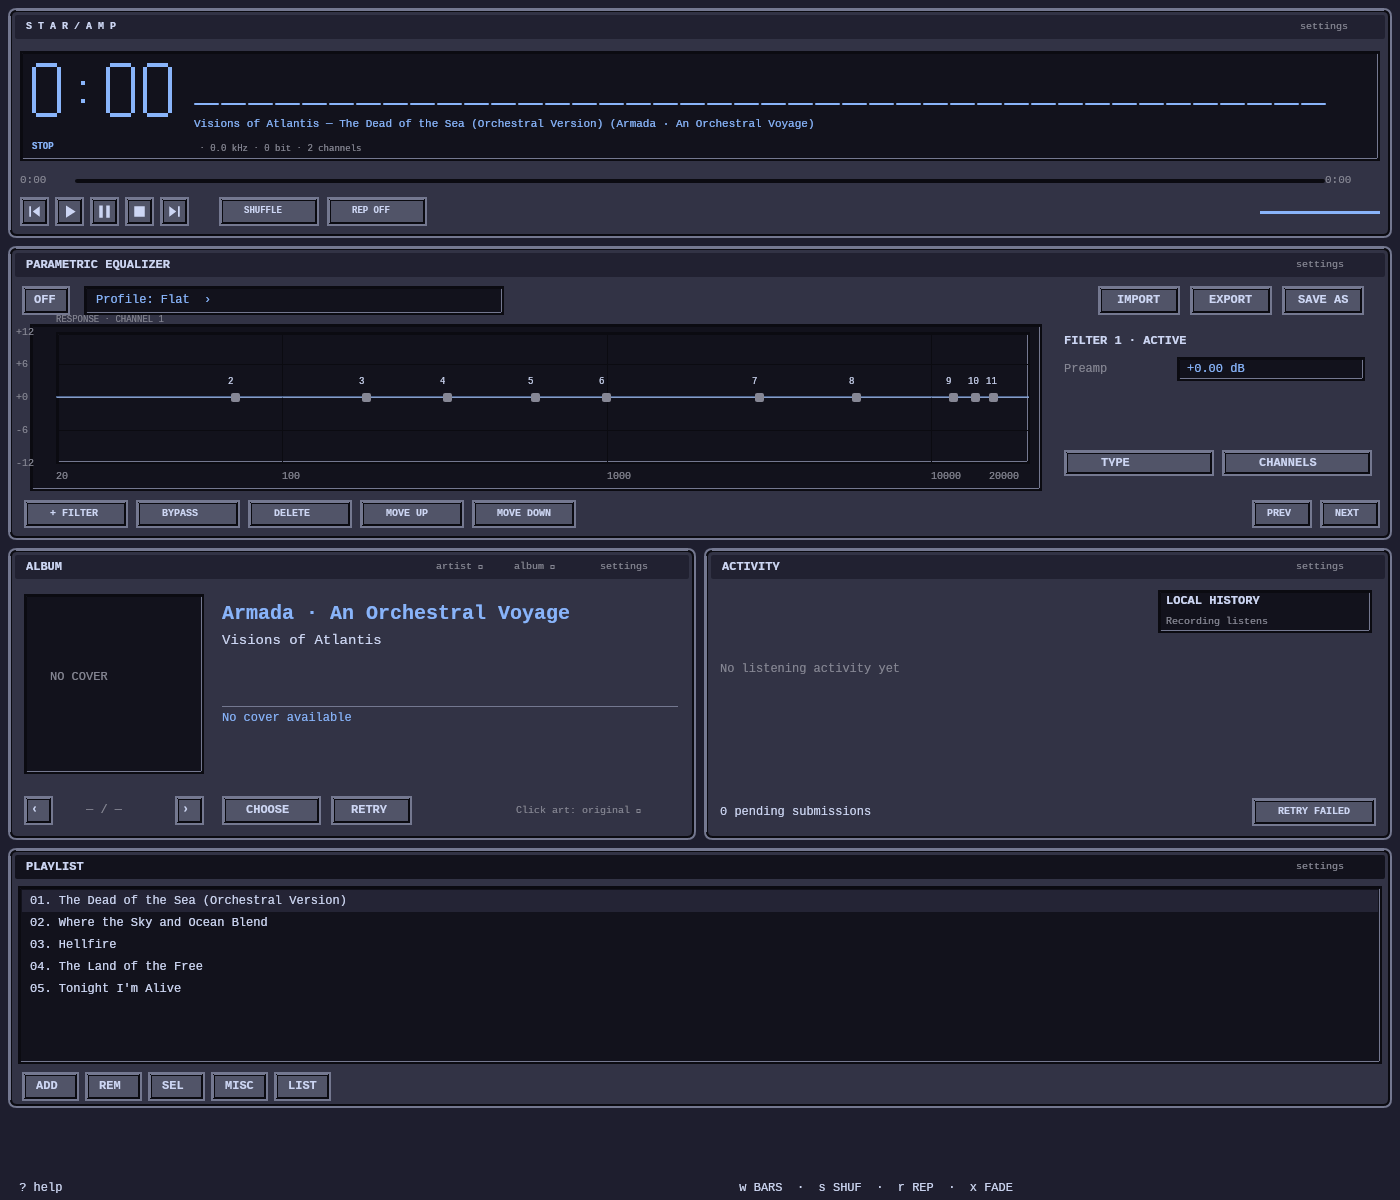
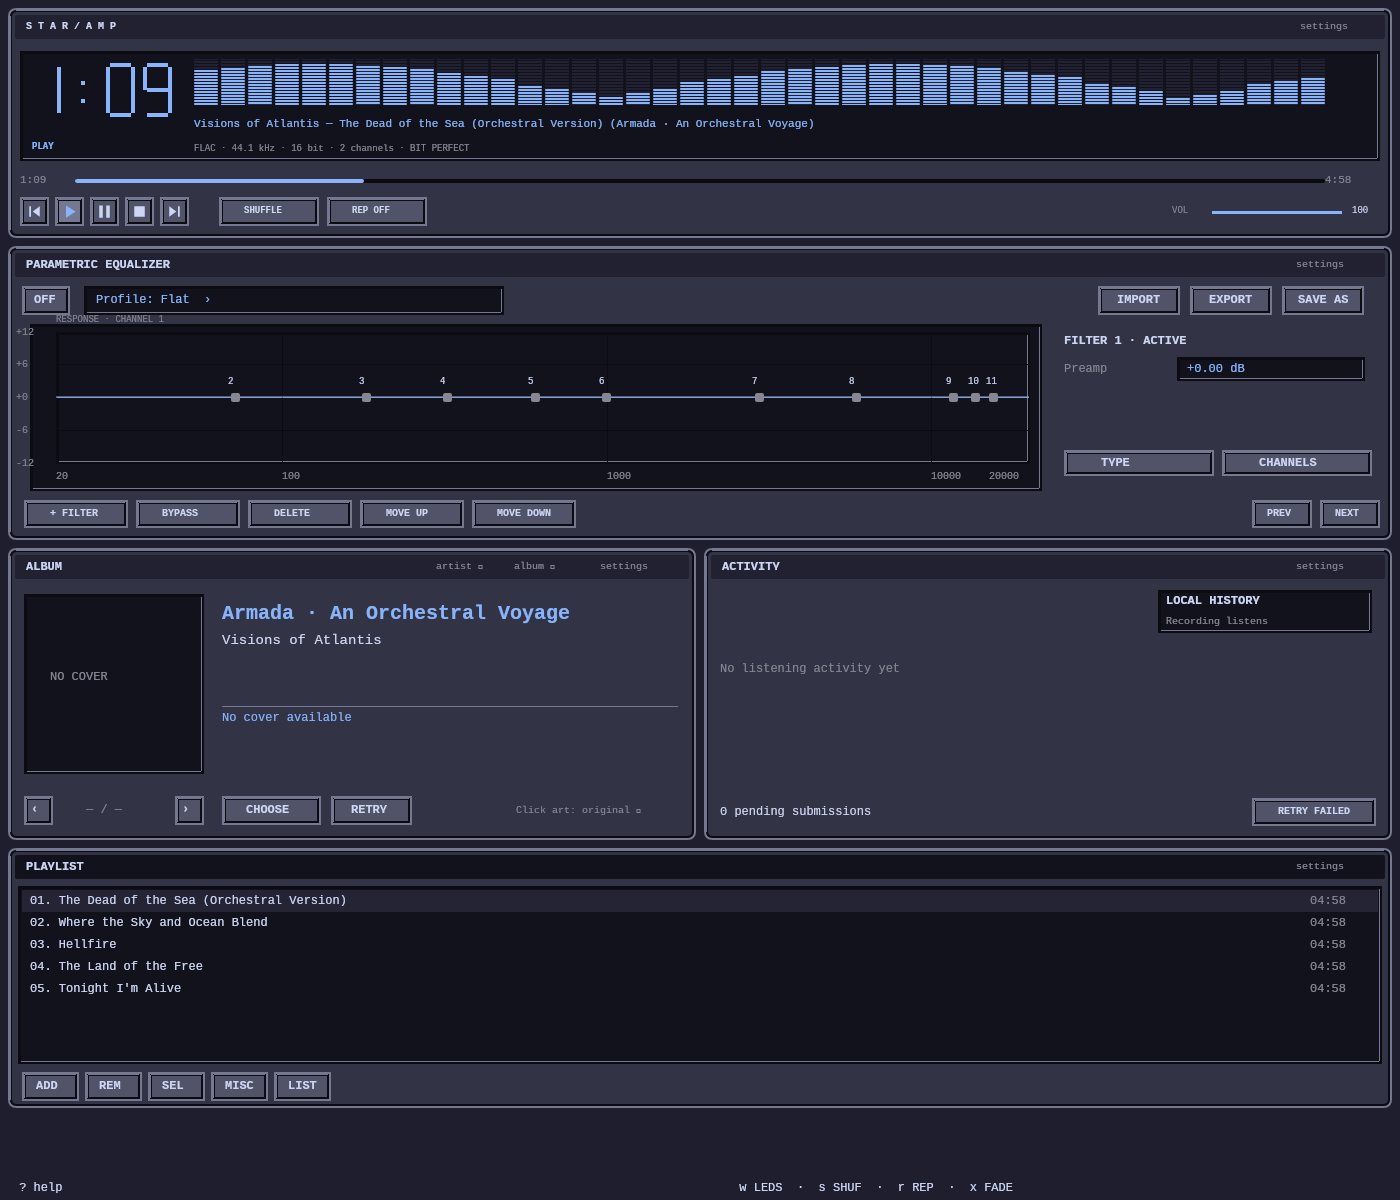
Match Classic analyzer density and capture populated playback states

diff --git a/docs/graphical/treatments/correction.html b/docs/graphical/treatments/correction.html
@@ -1,1 +1,1 @@
-<!doctype html><html><head><meta charset="utf-8"><title>STAR/AMP correction review</title><style>body{background:#171820;color:#d7d9cf;font:16px system-ui;margin:24px}section{overflow:auto;margin-bottom:40px}img{display:block;max-width:none;width:1400px;height:auto}a{color:#a4d791}</style></head><body><h1>Classic rack: implementation correction</h1><p>Images are shown at 1:1. The runtime captures use fixture data, with no artwork or listening history. Theme colors differ from the approved study.</p><h2>Approved design</h2><section><img src="winamp-01.png"></section><h2>Previous implementation · Catppuccin Mocha</h2><section><img src="runtime/before-mocha.png"></section><h2>Corrected native renderer · Catppuccin Mocha</h2><section><img src="runtime/catppuccin-mocha-full.png?v=chrome2"></section><h2>Corrected native renderer · light theme</h2><section><img src="runtime/catppuccin-latte-full.png?v=chrome2"></section></body></html>
+<!doctype html><html><head><meta charset="utf-8"><title>STAR/AMP correction review</title><style>body{background:#171820;color:#d7d9cf;font:16px system-ui;margin:24px}section{overflow:auto;margin-bottom:40px}img{display:block;max-width:none;width:1400px;height:auto}a{color:#a4d791}</style></head><body><h1>Classic rack: implementation correction</h1><p>Images are shown at 1:1. The runtime captures use fixture data, with deterministic playback samples, no artwork or listening history. Theme colors differ from the approved study.</p><h2>Approved design</h2><section><img src="winamp-01.png"></section><h2>Previous implementation · Catppuccin Mocha</h2><section><img src="runtime/before-mocha.png"></section><h2>Corrected native renderer · Catppuccin Mocha</h2><section><img src="runtime/catppuccin-mocha-full.png?v=chrome3"></section><h2>Corrected native renderer · light theme</h2><section><img src="runtime/catppuccin-latte-full.png?v=chrome3"></section></body></html>

diff --git a/src/embed/native.rs b/src/embed/native.rs
@@ -184,12 +184,27 @@ pub fn classic_surface(
                     break;
                 }
                 if matches!(state.vis_mode, VisMode::Leds | VisMode::Dots) {
-                    let size = if state.vis_mode == VisMode::Dots {
-                        2
-                    } else {
-                        4
-                    };
-                    for dy in (0..bar_h).step_by(6.max(usize::from(bar_h) / 32)) {
+                    let size = 2;
+                    let pitch = 3.max(usize::from(analyzer_height) / 32);
+                    for dy in (0..analyzer_height).step_by(pitch) {
+                        s.fill(
+                            R::new(
+                                bx,
+                                analyzer_top + analyzer_height
+                                    - dy
+                                    - size.min(analyzer_height - dy),
+                                if state.vis_mode == VisMode::Dots {
+                                    2.min(step)
+                                } else {
+                                    step.saturating_sub(3).max(1)
+                                },
+                                size.min(analyzer_height - dy),
+                            ),
+                            &c.title,
+                            0,
+                        );
+                    }
+                    for dy in (0..bar_h).step_by(pitch) {
                         s.fill(
                             R::new(
                                 bx,
@@ -197,7 +212,7 @@ pub fn classic_surface(
                                 if state.vis_mode == VisMode::Dots {
                                     2.min(step)
                                 } else {
-                                    step.saturating_sub(2).max(1)
+                                    step.saturating_sub(3).max(1)
                                 },
                                 size.min(bar_h - dy),
                             ),
@@ -379,9 +394,25 @@ pub fn classic_surface(
             );
         }
     }
-    let volume_w = 120.min(w / 5);
-    let volume = R::new(w - pad - volume_w, controls_y, volume_w, button);
+    let volume_w = 130.min(w / 5);
+    let volume = R::new(w - 50 - volume_w, controls_y, volume_w, button);
     if volume.x > pad + 5 * (button + 6) + 24 {
+        classic::label(
+            &mut s,
+            R::new(volume.x.saturating_sub(40), controls_y, 34, button),
+            "VOL",
+            &c.dim,
+            m.font.saturating_sub(2),
+            false,
+        );
+        classic::label(
+            &mut s,
+            R::new(w - 40, controls_y, 28, button),
+            format!("{:.0}", state.volume * 100.),
+            &c.ink,
+            m.font.saturating_sub(2),
+            false,
+        );
         s.fill(
             R::new(volume.x, volume.y + button / 2, volume.width, 3),
             &c.shadow,

diff --git a/src/ui/app/graphical.rs b/src/ui/app/graphical.rs
@@ -1642,6 +1642,7 @@ impl App {
     /// Deterministic production rendering for review; callers use an isolated
     /// STARAMP_DIR so no real listening history or player settings are touched.
     pub fn render_rack_references(output: &std::path::Path) -> Result<()> {
+        use std::sync::atomic::Ordering::Relaxed;
         anyhow::ensure!(
             std::env::var_os("STARAMP_DIR").is_some(),
             "reference rendering requires an isolated STARAMP_DIR"
@@ -1663,9 +1664,25 @@ impl App {
             item.artist = Some("Visions of Atlantis".into());
             item.album = Some("Armada · An Orchestral Voyage".into());
             item.year = Some(2026);
+            item.duration_secs = Some(298);
             items.push(item);
         }
         let mut app = Self::with_player(player, items, &cfg)?;
+        // Deterministic presentation data only: no device or playback worker is
+        // started. These samples exercise the same state consumed during playback.
+        app.player.state.sample_rate.store(44100, Relaxed);
+        app.player.state.bit_depth.store(16, Relaxed);
+        app.player.state.duration_frames.store(298 * 44100, Relaxed);
+        app.player.state.position_frames.store(69 * 44100, Relaxed);
+        app.player.state.codec.store(Arc::new("FLAC".into()));
+        app.player.state.playing.store(true, Relaxed);
+        app.player.state.bit_perfect.store(true, Relaxed);
+        app.vis.mode = VisMode::Leds;
+        let bands = (0..56)
+            .map(|i| 0.15 + 0.75 * (i as f32 * 0.11 + 1.).sin().abs())
+            .collect::<Vec<_>>();
+        app.vis.meters.update(&bands, 0.016);
+
         app.panels.eq = true;
         app.panels.album = true;
         app.panels.history = true;
